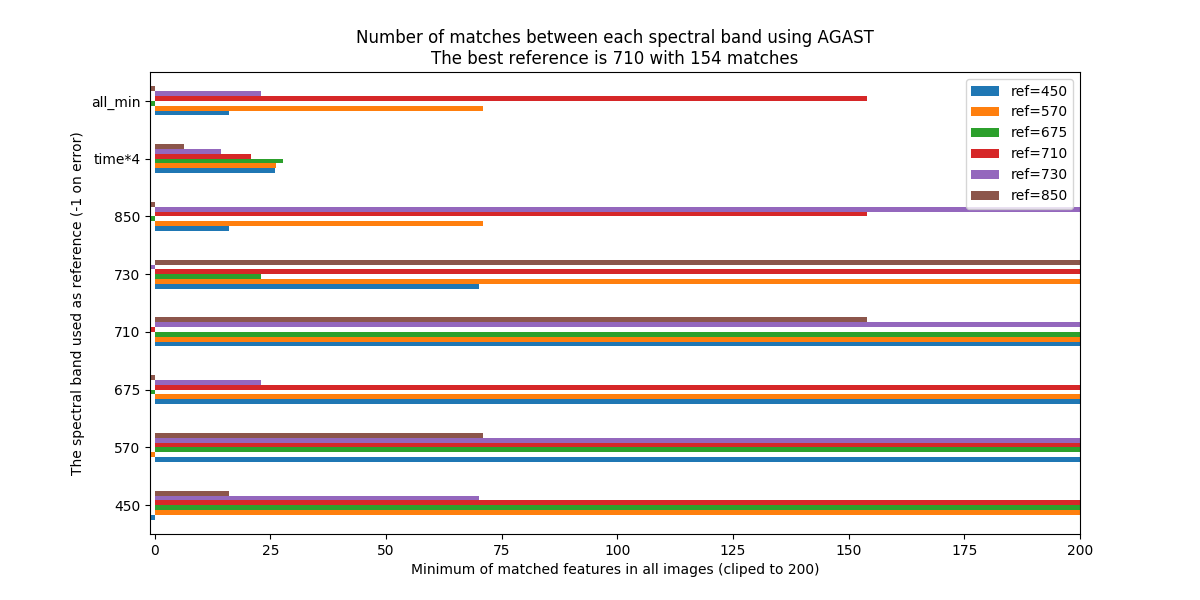
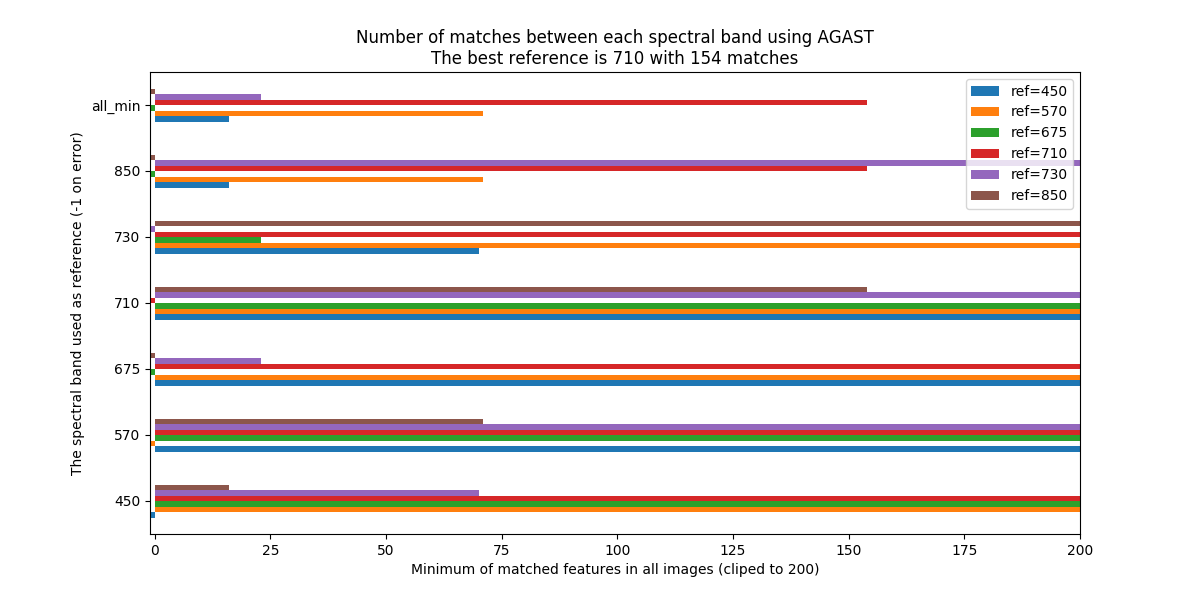
explaining methods performances - regenerating some figures

Changed region(s): [[0.0925, 0.24, 0.925, 0.78], [0.0925, 0.81, 0.8942, 0.87], [0.0617, 0.15, 0.74, 0.21]]

diff --git a/8.time-reference-plot.py b/8.time-reference-plot.py
@@ -19,21 +19,44 @@ for method in all_methods:
         all_min[i,i] = np.Inf
     best = all_min.min(axis=0).max()
     
-    all_times.append(time.flatten())
+    all_times.append(time.mean())
     all_best.append(best)
 pass
 
-fig, axes = plt.subplots(1, 2, figsize=(10,3))
-
 all_times = np.array(all_times)
-df = pd.DataFrame(all_times, index=all_methods,columns=pd.Index(['computation time in seconds']))
-df.plot(ax=axes[0], kind='barh')
-axes[0].legend(loc='lower right')
-
 all_best = np.array(all_best)
-df = pd.DataFrame(all_best, index=all_methods,columns=pd.Index(['number of features']))
-df.plot(ax=axes[1], kind='barh')
-axes[1].legend(loc='lower right')
+value = all_best / all_times * 2
+merged = np.vstack([all_times, all_best, value]).transpose()
+
+if False:
+    fig, axes = plt.subplots(1, 2, figsize=(10,3))
+
+    df = pd.DataFrame(
+        all_times, index=all_methods,
+        columns=pd.Index(['computation time in seconds'])
+    )
+    df.plot(ax=axes[0], kind='barh')
+    axes[0].legend(loc='lower right')
+
+    df = pd.DataFrame(
+        all_best, index=all_methods,
+        columns=pd.Index(['number of features'])
+    )
+    df.plot(ax=axes[1], kind='barh')
+    axes[1].legend(loc='lower right')
+else:
+    fig, axes = plt.subplots(1, 1, figsize=(10,3))
+    all_times = all_times * 4
+    columns = ['4x time in seconds', 'number of matches', 'matches/time']
+    
+    df = pd.DataFrame(
+        merged, index=all_methods,
+        columns=pd.Index(columns)
+    )
+    df = df.sort_values(['matches/time'])
+    df.plot(ax=axes, kind='barh')
+    plt.xlim([0,200])
+pass
 
 plt.suptitle('Keypoint extraction performances')
 plt.tight_layout(rect=(0,0,1,0.97))

diff --git a/src/debug.py b/src/debug.py
@@ -93,12 +93,30 @@ def scatter_plot_residual(source, target, corrected):
     plt.show()
 pass
 
+def keypoint_draw(img1, img2, kp1, kp2, matches):
+    img1 = cv2.cvtColor(img1, cv2.COLOR_GRAY2BGR)
+    img2 = cv2.cvtColor(img2, cv2.COLOR_GRAY2BGR)
+    
+    for i in kp1:
+        px = np.int0(i.pt)
+        img1[px[1], px[0], :] = [0,0,255]
+    
+    for i in kp2:
+        px = np.int0(i.pt)
+        img2[px[1], px[0], :] = [0,0,255]
+    
+    return cv2.drawMatches(
+        img1, kp1, img2, kp2, matches, None,
+        flags=cv2.DrawMatchesFlags_NOT_DRAW_SINGLE_POINTS
+    )
+pass
+
 def draw_final_keypoint_matching(source, target, grad_mid, grad_i):
     kp1 = [cv2.KeyPoint(i[0], i[1], 0) for i in source[0]]
     kp2 = [cv2.KeyPoint(i[0], i[1], 0) for i in target[0]]
     matches = [cv2.DMatch(i,i,0) for i in range(source.shape[1])]
     kp = keypoint_draw(grad_mid, grad_i, kp1, kp2, matches)
-    cv2.namedWindow(str(i), cv2.WINDOW_NORMAL)
-    cv2.imshow(str(i), kp)
+    cv2.namedWindow('kp match', cv2.WINDOW_NORMAL)
+    cv2.imshow('kp match', kp)
     cv2.waitKey(1)
 pass

diff --git a/8.best-reference-plot.py b/8.best-reference-plot.py
@@ -7,7 +7,6 @@ from src.data import *
 
 for method in all_methods:
     data = np.load('figures/keypoint-reference-count-'+method+'.npy', allow_pickle=True)
-    time = data[:,:,6].mean(axis=0) * 4
     data = data[:,:,:6]
 
     data = np.min(data, axis=0)
@@ -16,12 +15,12 @@ for method in all_methods:
         all_min[i,i] = np.Inf
     all_min = all_min.min(axis=0)
     
-    data = np.vstack([data, time, all_min])
+    data = np.vstack([data, all_min])
     
     best = np.argmax(all_min)
 
     df = pd.DataFrame(
-        data, index=[str(i) for i in all_bands] + ['time*4', 'all_min'],
+        data, index=[str(i) for i in all_bands] + ['all_min'],
         columns=pd.Index(['ref='+str(i) for i in all_bands], name='Genus')
     )
                      

diff --git a/src/keypoint.py b/src/keypoint.py
@@ -126,21 +126,3 @@ def keypoint_filter(matches, kp1, kp2, alpha):
     
     return matches
 pass
-
-def keypoint_draw(img1, img2, kp1, kp2, matches):
-    img1 = cv2.cvtColor(img1, cv2.COLOR_GRAY2BGR)
-    img2 = cv2.cvtColor(img2, cv2.COLOR_GRAY2BGR)
-    
-    for i in kp1:
-        px = np.int0(i.pt)
-        img1[px[1], px[0], :] = [0,0,255]
-    
-    for i in kp2:
-        px = np.int0(i.pt)
-        img2[px[1], px[0], :] = [0,0,255]
-    
-    return cv2.drawMatches(
-        img1, kp1, img2, kp2, matches, None,
-        flags=cv2.DrawMatchesFlags_NOT_DRAW_SINGLE_POINTS
-    )
-pass

diff --git a/README.md b/README.md
@@ -6,9 +6,11 @@ AIRPHEN is a scientific multispectral camera developed by agronomists for agricu
 It can be embedded in different types of platforms such as UAV, phenotyping robots, etc.
 AIRPHEN is highly configurable (bands, fields of view), lightweight and compact.
 It can be operated wireless and combined with complementary thermal infrared channel and high resolution RGB cameras.
-The camera was configured using 450/570/675/710/730/850 nm with FWHM of 10nm. The focal lens is 8mm.
-It's raw resolution for each spectral band is 1280x960 px with 12 bit of precision.
-Finaly the camera also provide an internal GPS antenna.
+
++ The camera was configured using 450/570/675/710/730/850 nm with FWHM of 10nm.
++ The focal lens is 8mm.
++ It's raw resolution for each spectral band is 1280x960 px with 12 bit of precision.
++ Finaly the camera also provide an internal GPS antenna.
 
 ![alt text](https://www.hiphen-plant.com/wp-content/webp-express/webp-images/doc-root/wp-content/uploads/2019/05/airphen-detail3.png.webp "the airphen camera")
 
@@ -41,7 +43,7 @@ Each steep is explained here with corresponding figures and metrics.
 
 ![alt text](figures/affine-allignement-rmse.jpg "Affine Reprojection Error")
 ![alt text](figures/affine_5.0_false_color.jpg "False Color Corrected Image")
-
+ 
 ## Phase 2 (Perspective Correction):
 
 Each spectral band have different properties and value by nature,
@@ -55,22 +57,34 @@ to find similarity in gradient break of those ones. The Sharr filter are used in
 + extract descriptor using ORB (for matche performance)
 + match keypoint of each spectral band to a reference (570 or 710 seem the most valuable -> number of matches)
 + filter matches (distance, position, angle) to remove false positive one (pre-affine transform give epipolar line properties)
++ findHomography between detected/filtered keypoints with RANSAC
 
 ![alt text](figures/prespective-feature-matching.jpg "feature matching")
 
-Different type of keypoint extractor has been tested {ORB, AKAZE, BRISK, SURF, FAST} all results can be found in figures/
-Two algorithms show great numbers of keypoint after filtering and homography association such as FAST and BRISK.
+Different type of keypoint extractor has been tested {ORB, AKAZE, KAZE, BRISK, AGAST, MSER, SURF, FAST} all results can be found in figures/
+The following figure show the numbers of keypoint after filtering and homography association (minimum of all matches),
+the computation time and the performances ratio (matches/time) for each methods.
 
 ![alt text](figures/comparaison-keypoint-performances.png "features performances")
 
-Unless BRISK show good number of matched keypoints there computation time is too huge (~79 sec) comparing to FAST (~8 sec) without notable benefits.
-SURF is can also be suitable for small gain of performances, the number of detected feature can be enought to fit the perspective correction,
-but they reduce the residual precision to 1.1~1.2 px how is acceptable.
+All this methods works, the selection of the methods depends on how we want to balance between computation time and precision:
++ FAST and AGAST is the most suitable, balanced between time and matches performances.
++ KAZE show the best number of matches (>200) but it's also 2.5 times slower than FAST/AGAST.
++ SURF can be suitable for small gain of performances, the number of detected feature can be enought to fit the perspective correction.
 
-The following figure show the Minimum of number of matches between the reference spectra to all others using FAST algorithm.
+The other ones did not show improvement in terme of performanes or matches:
++ AKAZE and MSER did not show benefits comparing to FAST.
++ ORB could be excluded, the number of matches is near to ~20 how is the minimal to enssure that the homography is correct.
++ BRISK show good number of matches, but there computation time is too huge (~79 sec) comparing to FAST (~8 sec) without notable benefits.
+
+Increasing the number of matched keypoints show tiny more precision. For exemple, moving from SURF (~30 matches) to FAST (~130 matches)
+show the final residual distances reduced from ~1.2px to ~0.9px and the computation time from ~5sec to ~8sec.
+
+All methods show that the best reference spectra is 710nm, execpted for SURF how is 570nm.
+The following figure show the Minimum of number of matches between each reference spectra to all others using FAST algorithm.
+
 ![alt text](figures/comparaison-keypoint-matching-reference-FAST.png "feature SURF performances")
 
-+ findHomography between detected keypoints
 + perspective correction between each matches (current to reference)
 + estimate reprojection error (rmse+std near to 1 pixel)
 + crop each spectral bands to the minimal bbox
